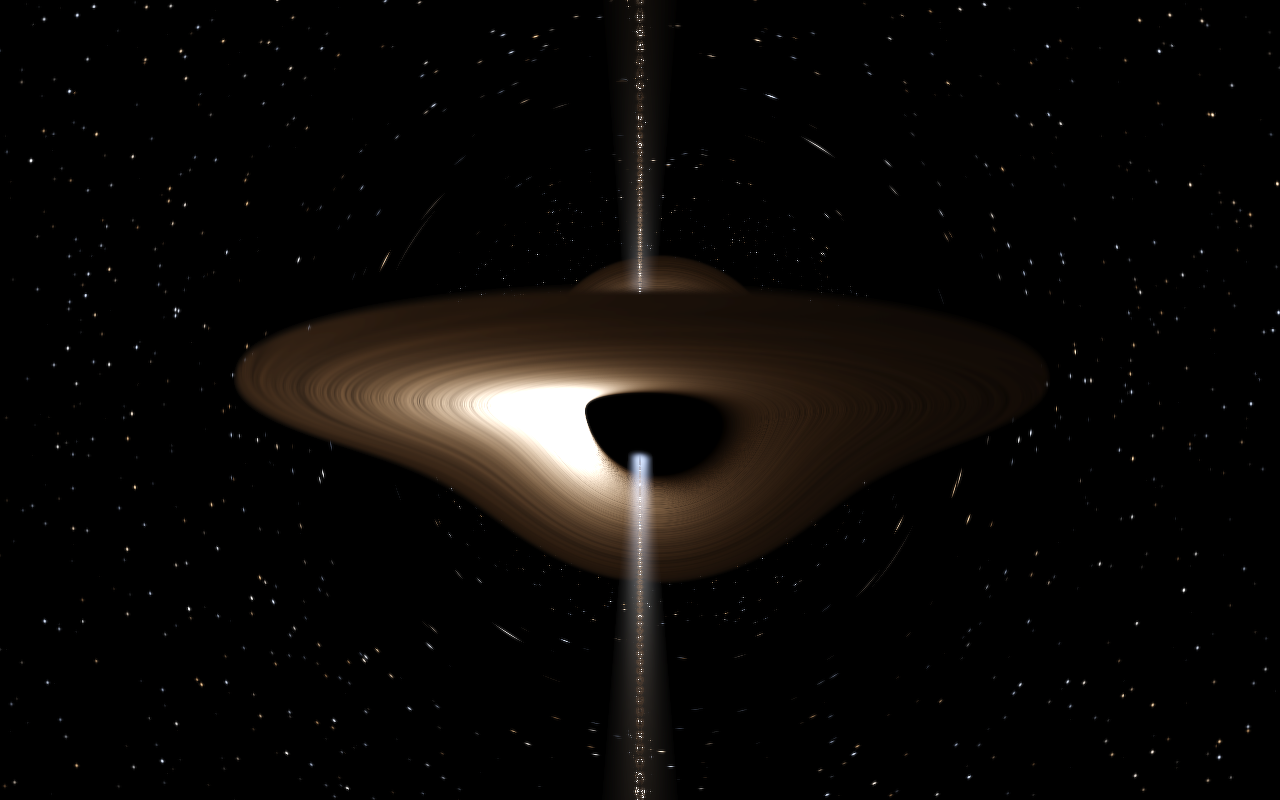
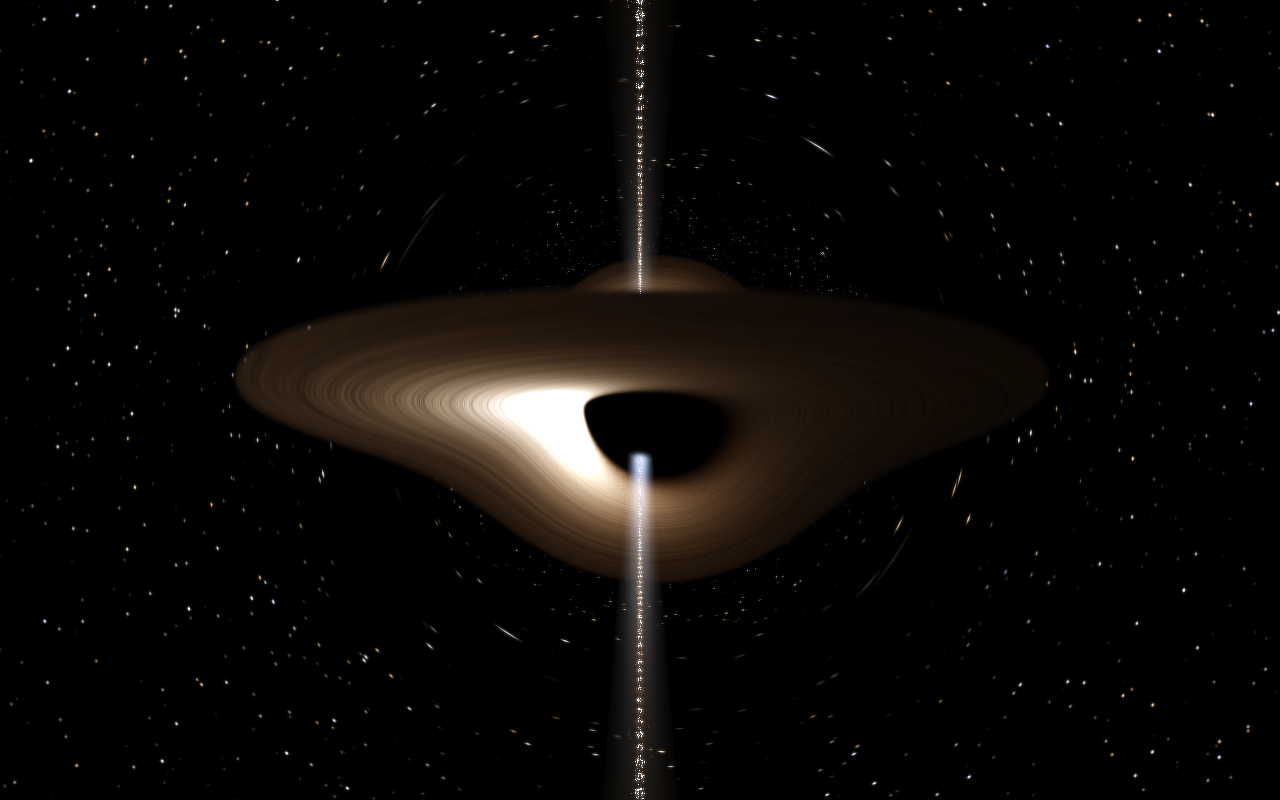
feat(black_hole): the disc as a solution, not a profile
The disc was Keplerian with a Newtonian temperature law. It is now the
Novikov-Thorne flux -- Page and Thorne (1974), the solution of the relativistic
thin-disc equations in this metric.

That is not a refinement of the old profile, it is a different kind of object.
r^(-3/4) with a boundary factor knows only where the disc ends; the relativistic
flux depends on the spin all the way through, so it can express what dragging
does to the gas rather than just where the gas stops. The three logarithmic
terms are indexed by the roots of x^3 - 3x + 2a, which have a closed form; the
middle root passes through zero as a does, taking its own numerator with it, so
that term is 0/0 in the limit and is dropped rather than evaluated.

One consequence worth stating because it looks like a regression and is not: the
temperature is no longer pinned. T_SCALE stands in for the accretion rate and
the peak temperature falls out of the flux, so a = 0 now renders a visibly
cooler, redder, dimmer disc than a = 0.9. That is the physics -- a non-spinning
hole has its inner edge at 6 M instead of 2.32 M and simply cannot heat gas the
same way. The old code hid that by normalising the peak to a constant.

Also:

  * LIMB DARKENING, Chandrasekhar's (1 + 2.06 mu)/3.06 for a semi-infinite
    electron-scattering atmosphere. The one approximation is that mu is taken
    against the coordinate normal rather than the fluid frame's. It dims the
[…]

Changed region(s): [[0.2812, 0.4375, 0.5312, 0.5625], [0.4688, 0.5625, 0.5312, 0.6562]]

diff --git a/README.md b/README.md
@@ -173,7 +173,7 @@ everything else.
 | `lights.ae` | PBR material presets cycling with the light type, bloom, transparency |
 | `water.ae` | A 256x256 Gerstner-wave ocean, 65536 vertices |
 | `voxel_world.ae` | 960464 voxels of Perlin terrain, 93030 visible, one draw call |
-| `black_hole.ae` | Kerr geodesics integrated per pixel in one screen quad: a spinning hole, its asymmetric shadow, the lensed far side of the disc, a lensed starfield, and redshift from gravity, Doppler and frame dragging together ([picture](docs/black-hole.png)) |
+| `black_hole.ae` | Kerr geodesics integrated per pixel in one screen quad: a spinning hole, its asymmetric shadow, a Novikov-Thorne disc lensed over the top of it, a lensed starfield, and redshift from gravity, Doppler and frame dragging as one factor ([picture](docs/black-hole.png)) |
 | `particle_disc.ae` | The same scene as an N-body: 200000 particles under Verlet integration in one instanced draw, coloured per instance |
 | `sand.ae` | 250000 grains falling and settling, click to scatter them |
 | `smooth_terrain.ae` | The same terrain meshed with surface nets, 67590 triangles |
